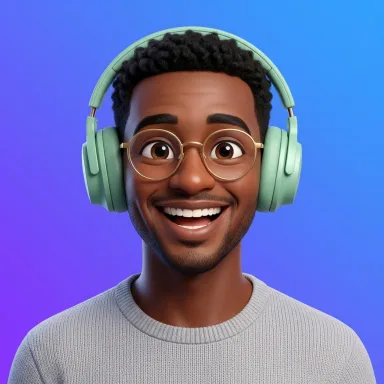
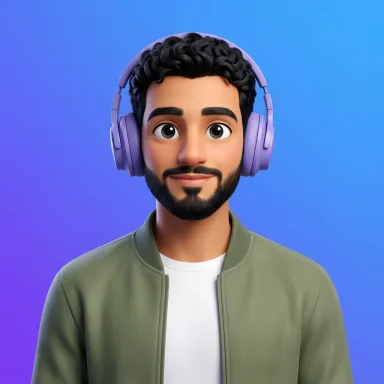
Speakers: Yasser gets his name back, Hazem / حازم becomes Alaa / علاء
Hazem (the Schedar voice) is in two single-voice homepage samples and his
name is never spoken in any homepage audio. Avatars follow the names. A
migration moves the name on live (Yasser first, so the name is free).

Claude-Session: https://claude.ai/code/session_01YQf48Cjri8HnhH7JSzPg6d

diff --git a/tests/Feature/AlaaSpeakerTest.php b/tests/Feature/AlaaSpeakerTest.php
@@ -1,0 +1,68 @@
+<?php
+
+namespace Tests\Feature;
+
+use App\Models\VoiceSample;
+use App\Support\SpeakerAvatar;
+use Database\Seeders\VoiceSeeder;
+use Illuminate\Foundation\Testing\RefreshDatabase;
+use Illuminate\Support\Facades\DB;
+use Tests\TestCase;
+
+class AlaaSpeakerTest extends TestCase
+{
+    use RefreshDatabase;
+
+    public function test_hazem_is_now_alaa_and_yasser_and_waleed_keep_their_names(): void
+    {
+        $this->seed(VoiceSeeder::class);
+        $this->assertTrue(DB::table('voices')->where('display_name', 'Alaa')->where('provider_voice_id', 'Schedar')->exists());
+        $this->assertTrue(DB::table('voices')->where('display_name', 'Yasser')->where('provider_voice_id', 'Zubenelgenubi')->exists());
+        $this->assertTrue(DB::table('voices')->where('display_name', 'Waleed')->exists());
+        $this->assertFalse(DB::table('voices')->where('display_name', 'Hazem')->exists());
+        $this->assertNotNull(SpeakerAvatar::url('Alaa', 'ar'));
+        $this->assertNotNull(SpeakerAvatar::url('Yasser', 'ar'));
+    }
+
+    public function test_the_migration_moves_the_name_on_live_rows(): void
+    {
+        $this->seed(VoiceSeeder::class);
+        // Live before: Yasser was called Alaa, Hazem was Hazem.
+        DB::table('voices')->where('provider_voice_id', 'Schedar')->update(['display_name' => 'Hazem']);
+        DB::table('voices')->where('provider_voice_id', 'Zubenelgenubi')->update(['display_name' => 'Alaa']);
+        $nile = $this->sample('ar-sd-nile', 'Alaa', 'علاء');
+        $saidi = $this->sample('ar-eg-saidi-wisdom', 'Hazem', 'حازم');
+        $tea = $this->sample('ar-mr-hassaniya-tea', 'Hazem', 'حازم');
+
+        (require database_path('migrations/2026_10_15_160000_move_alaa_from_yasser_to_hazem.php'))->up();
+
+        $this->assertSame('Yasser', DB::table('voices')->where('provider_voice_id', 'Zubenelgenubi')->value('display_name'));
+        $this->assertSame('Alaa', DB::table('voices')->where('provider_voice_id', 'Schedar')->value('display_name'));
+        $this->assertSame('ياسر', $nile->fresh()->metadata['speaker_name_ar']);
+        $this->assertSame('علاء', $saidi->fresh()->metadata['speaker_name_ar']);
+        $this->assertSame('Alaa', $tea->fresh()->metadata['speakers'][0]['name']);
+    }
+
+    public function test_no_homepage_audio_says_any_of_these_names(): void
+    {
+        $data = require database_path('seeders/data/showcase_samples.php');
+        $spoken = '';
+        foreach ($data['samples'] as $sample) {
+            $spoken .= ' '.($sample['text'] ?? '');
+            foreach ($sample['lines'] ?? [] as $line) {
+                $spoken .= ' '.explode(':', $line, 2)[1];
+            }
+        }
+        foreach (['حازم', 'Hazem', 'علاء', 'Alaa', 'ياسر', 'Yasser'] as $name) {
+            $this->assertStringNotContainsString($name, $spoken);
+        }
+    }
+
+    private function sample(string $slug, string $name, string $nameAr): VoiceSample
+    {
+        return VoiceSample::query()->create([
+            'title' => $slug, 'sample_text' => 'نص', 'audio_path' => 'audio/showcase/'.$slug.'.mp3', 'language' => 'ar', 'category' => 'hero',
+            'metadata' => ['speaker_name' => $name, 'speaker_name_ar' => $nameAr, 'speakers' => [['name' => $name, 'name_ar' => $nameAr]]],
+        ]);
+    }
+}

diff --git a/database/seeders/data/showcase_samples.php b/database/seeders/data/showcase_samples.php
@@ -84,7 +84,7 @@ return [
             'text' => 'بص بقى، أنا عايزة أقولك حاجة مهمة أوي. البرنامج ده هيوفّر عليك وقت كتير، ودلوقتي تقدر تعمل صوت احترافي في ثانية. جرّبه وقولّي رأيك!'],
 
         ['slug' => 'ar-eg-saidi-wisdom', 'kind' => 'single', 'language' => 'ar', 'dialect' => 'ar-EG-SA', 'gender' => 'male',
-            'voice' => 'Schedar', 'speaker' => 'Hazem', 'speaker_ar' => 'حازم',
+            'voice' => 'Schedar', 'speaker' => 'Alaa', 'speaker_ar' => 'علاء',
             'title' => 'Words of wisdom', 'title_ar' => 'حكمة الجدود', 'emotion' => 'wise',
             'style' => 'An older man from Upper Egypt giving advice to his son. Deep, slow, proud and tender.',
             'text' => 'يا ولدي، اسمع الكلام ده زين. الأرض دي ما بتديش غير اللي يتعب فيها. أبوي كان يگول: اللي يزرع الخير، يحصد الخير. ودلوك جه دورك.'],
@@ -126,7 +126,7 @@ return [
             'text' => 'أهلين! إيش رأيكم نتمشّى في صنعاء القديمة؟ البيوت مزخرفة والسوق مليان بن وزبيب. قد شفتوا شي أحلى من كذا؟'],
 
         ['slug' => 'ar-sd-nile', 'kind' => 'single', 'language' => 'ar', 'dialect' => 'ar-SD', 'gender' => 'male',
-            'voice' => 'Zubenelgenubi', 'speaker' => 'Alaa', 'speaker_ar' => 'علاء',
+            'voice' => 'Zubenelgenubi', 'speaker' => 'Yasser', 'speaker_ar' => 'ياسر',
             'title' => 'Sunset on the Nile', 'title_ar' => 'مغرب على النيل', 'emotion' => 'calm',
             'style' => 'A Sudanese man talking to a close friend. Calm, deep, measured and kind.',
             'text' => 'يا زول، كيفنك؟ هسّي داير أحكي ليك عن الخرطوم ساعة المغرب، والنيل لونه دهبي. حاجة جميلة شديد ياخي.'],
@@ -246,7 +246,7 @@ return [
             'text' => 'واش راك خويا؟ درك نروحو لوهران نسمعو الراي ونتمشاو فالبحر، الجو هايل بزاف، ما تخليش الفرصة.'],
 
         ['slug' => 'ar-mr-hassaniya-tea', 'kind' => 'single', 'language' => 'ar', 'dialect' => 'ar-MR', 'gender' => 'male',
-            'voice' => 'Schedar', 'speaker' => 'Hazem', 'speaker_ar' => 'حازم',
+            'voice' => 'Schedar', 'speaker' => 'Alaa', 'speaker_ar' => 'علاء',
             'title' => 'Three glasses of tea', 'title_ar' => 'كيسان الأتاي', 'emotion' => 'calm',
             'style' => 'An older man from Nouakchott sharing a tea tradition. Slow, deep, Hassaniya melody.',
             'text' => 'أهلاً بيكم! الأتاي عندنا ثلاث كيسان، الأول مرّ كالحياة، والثاني حلو كالحب، والثالث خفيف كالموت. اشربوا وتهنّاو.'],

diff --git a/database/migrations/2026_10_15_160000_move_alaa_from_yasser_to_hazem.php b/database/migrations/2026_10_15_160000_move_alaa_from_yasser_to_hazem.php
@@ -1,0 +1,64 @@
+<?php
+
+use Illuminate\Database\Migrations\Migration;
+use Illuminate\Support\Facades\DB;
+use Illuminate\Support\Facades\Schema;
+
+/**
+ * The owner moved the name Alaa / علاء: Yasser / ياسر (Zubenelgenubi) gets
+ * his name back, and Hazem / حازم (Schedar) becomes Alaa / علاء. In the studio
+ * and in their homepage samples. No homepage audio says either name.
+ */
+return new class extends Migration
+{
+    private const YASSER_SAMPLES = ['audio/showcase/ar-sd-nile.mp3'];
+
+    private const HAZEM_SAMPLES = ['audio/showcase/ar-eg-saidi-wisdom.mp3', 'audio/showcase/ar-mr-hassaniya-tea.mp3'];
+
+    public function up(): void
+    {
+        $this->voice('Zubenelgenubi', 'Alaa', 'Yasser');
+        $this->samples(self::YASSER_SAMPLES, ['Alaa' => 'Yasser', 'علاء' => 'ياسر']);
+        $this->voice('Schedar', 'Hazem', 'Alaa');
+        $this->samples(self::HAZEM_SAMPLES, ['Hazem' => 'Alaa', 'حازم' => 'علاء']);
+    }
+
+    public function down(): void
+    {
+        $this->voice('Schedar', 'Alaa', 'Hazem');
+        $this->samples(self::HAZEM_SAMPLES, ['Alaa' => 'Hazem', 'علاء' => 'حازم']);
+        $this->voice('Zubenelgenubi', 'Yasser', 'Alaa');
+        $this->samples(self::YASSER_SAMPLES, ['Yasser' => 'Alaa', 'ياسر' => 'علاء']);
+    }
+
+    private function voice(string $providerVoice, string $from, string $to): void
+    {
+        if (Schema::hasTable('voices')) {
+            DB::table('voices')->where('provider_voice_id', $providerVoice)->where('display_name', $from)->update(['display_name' => $to]);
+        }
+    }
+
+    /**
+     * @param  array<int, string>  $paths
+     * @param  array<string, string>  $names
+     */
+    private function samples(array $paths, array $names): void
+    {
+        if (! Schema::hasTable('voice_samples')) {
+            return;
+        }
+        foreach (DB::table('voice_samples')->whereIn('audio_path', $paths)->get() as $row) {
+            // Arabic is stored escaped in the JSON, so it is decoded rather than replaced as text.
+            $data = json_decode((string) $row->metadata, true);
+            if (! is_array($data)) {
+                continue;
+            }
+            array_walk_recursive($data, function (&$value) use ($names): void {
+                if (is_string($value)) {
+                    $value = strtr($value, $names);
+                }
+            });
+            DB::table('voice_samples')->where('id', $row->id)->update(['metadata' => json_encode($data)]);
+        }
+    }
+};

diff --git a/database/seeders/VoiceSeeder.php b/database/seeders/VoiceSeeder.php
@@ -166,12 +166,12 @@ class VoiceSeeder extends Seeder
                     ['id' => 'ar-Gemini-HD-Rasalgethi', 'gender' => 'male', 'display_name' => 'Mishary', 'provider_voice_id' => 'Rasalgethi'],
                     ['id' => 'ar-Gemini-HD-Sadachbia', 'gender' => 'male', 'display_name' => 'Hamed', 'provider_voice_id' => 'Sadachbia'],
                     ['id' => 'ar-Gemini-HD-Sadaltager', 'gender' => 'male', 'display_name' => 'Tamim', 'provider_voice_id' => 'Sadaltager'],
-                    ['id' => 'ar-Gemini-HD-Schedar', 'gender' => 'male', 'display_name' => 'Hazem', 'provider_voice_id' => 'Schedar'],
+                    ['id' => 'ar-Gemini-HD-Schedar', 'gender' => 'male', 'display_name' => 'Alaa', 'provider_voice_id' => 'Schedar'],
                     ['id' => 'ar-Gemini-HD-Sulafat', 'gender' => 'female', 'display_name' => 'Manal', 'provider_voice_id' => 'Sulafat'],
                     ['id' => 'ar-Gemini-HD-Umbriel', 'gender' => 'male', 'display_name' => 'Raed', 'provider_voice_id' => 'Umbriel'],
                     ['id' => 'ar-Gemini-HD-Vindemiatrix', 'gender' => 'female', 'display_name' => 'Jumana', 'provider_voice_id' => 'Vindemiatrix'],
                     ['id' => 'ar-Gemini-HD-Zephyr', 'gender' => 'female', 'display_name' => 'Sawsan', 'provider_voice_id' => 'Zephyr'],
-                    ['id' => 'ar-Gemini-HD-Zubenelgenubi', 'gender' => 'male', 'display_name' => 'Alaa', 'provider_voice_id' => 'Zubenelgenubi'],
+                    ['id' => 'ar-Gemini-HD-Zubenelgenubi', 'gender' => 'male', 'display_name' => 'Yasser', 'provider_voice_id' => 'Zubenelgenubi'],
                 ],
             ],
 

diff --git a/app/Support/VoiceCatalog.php b/app/Support/VoiceCatalog.php
@@ -105,9 +105,9 @@ class VoiceCatalog
         'Mishary' => 'مشاري',
         'Hamed' => 'حامد',
         'Tamim' => 'تميم',
-        'Hazem' => 'حازم',
-        'Raed' => 'رائد',
         'Alaa' => 'علاء',
+        'Raed' => 'رائد',
+        'Yasser' => 'ياسر',
         // English female names
         'Emma' => 'إيما',
         'Olivia' => 'أوليفيا',
